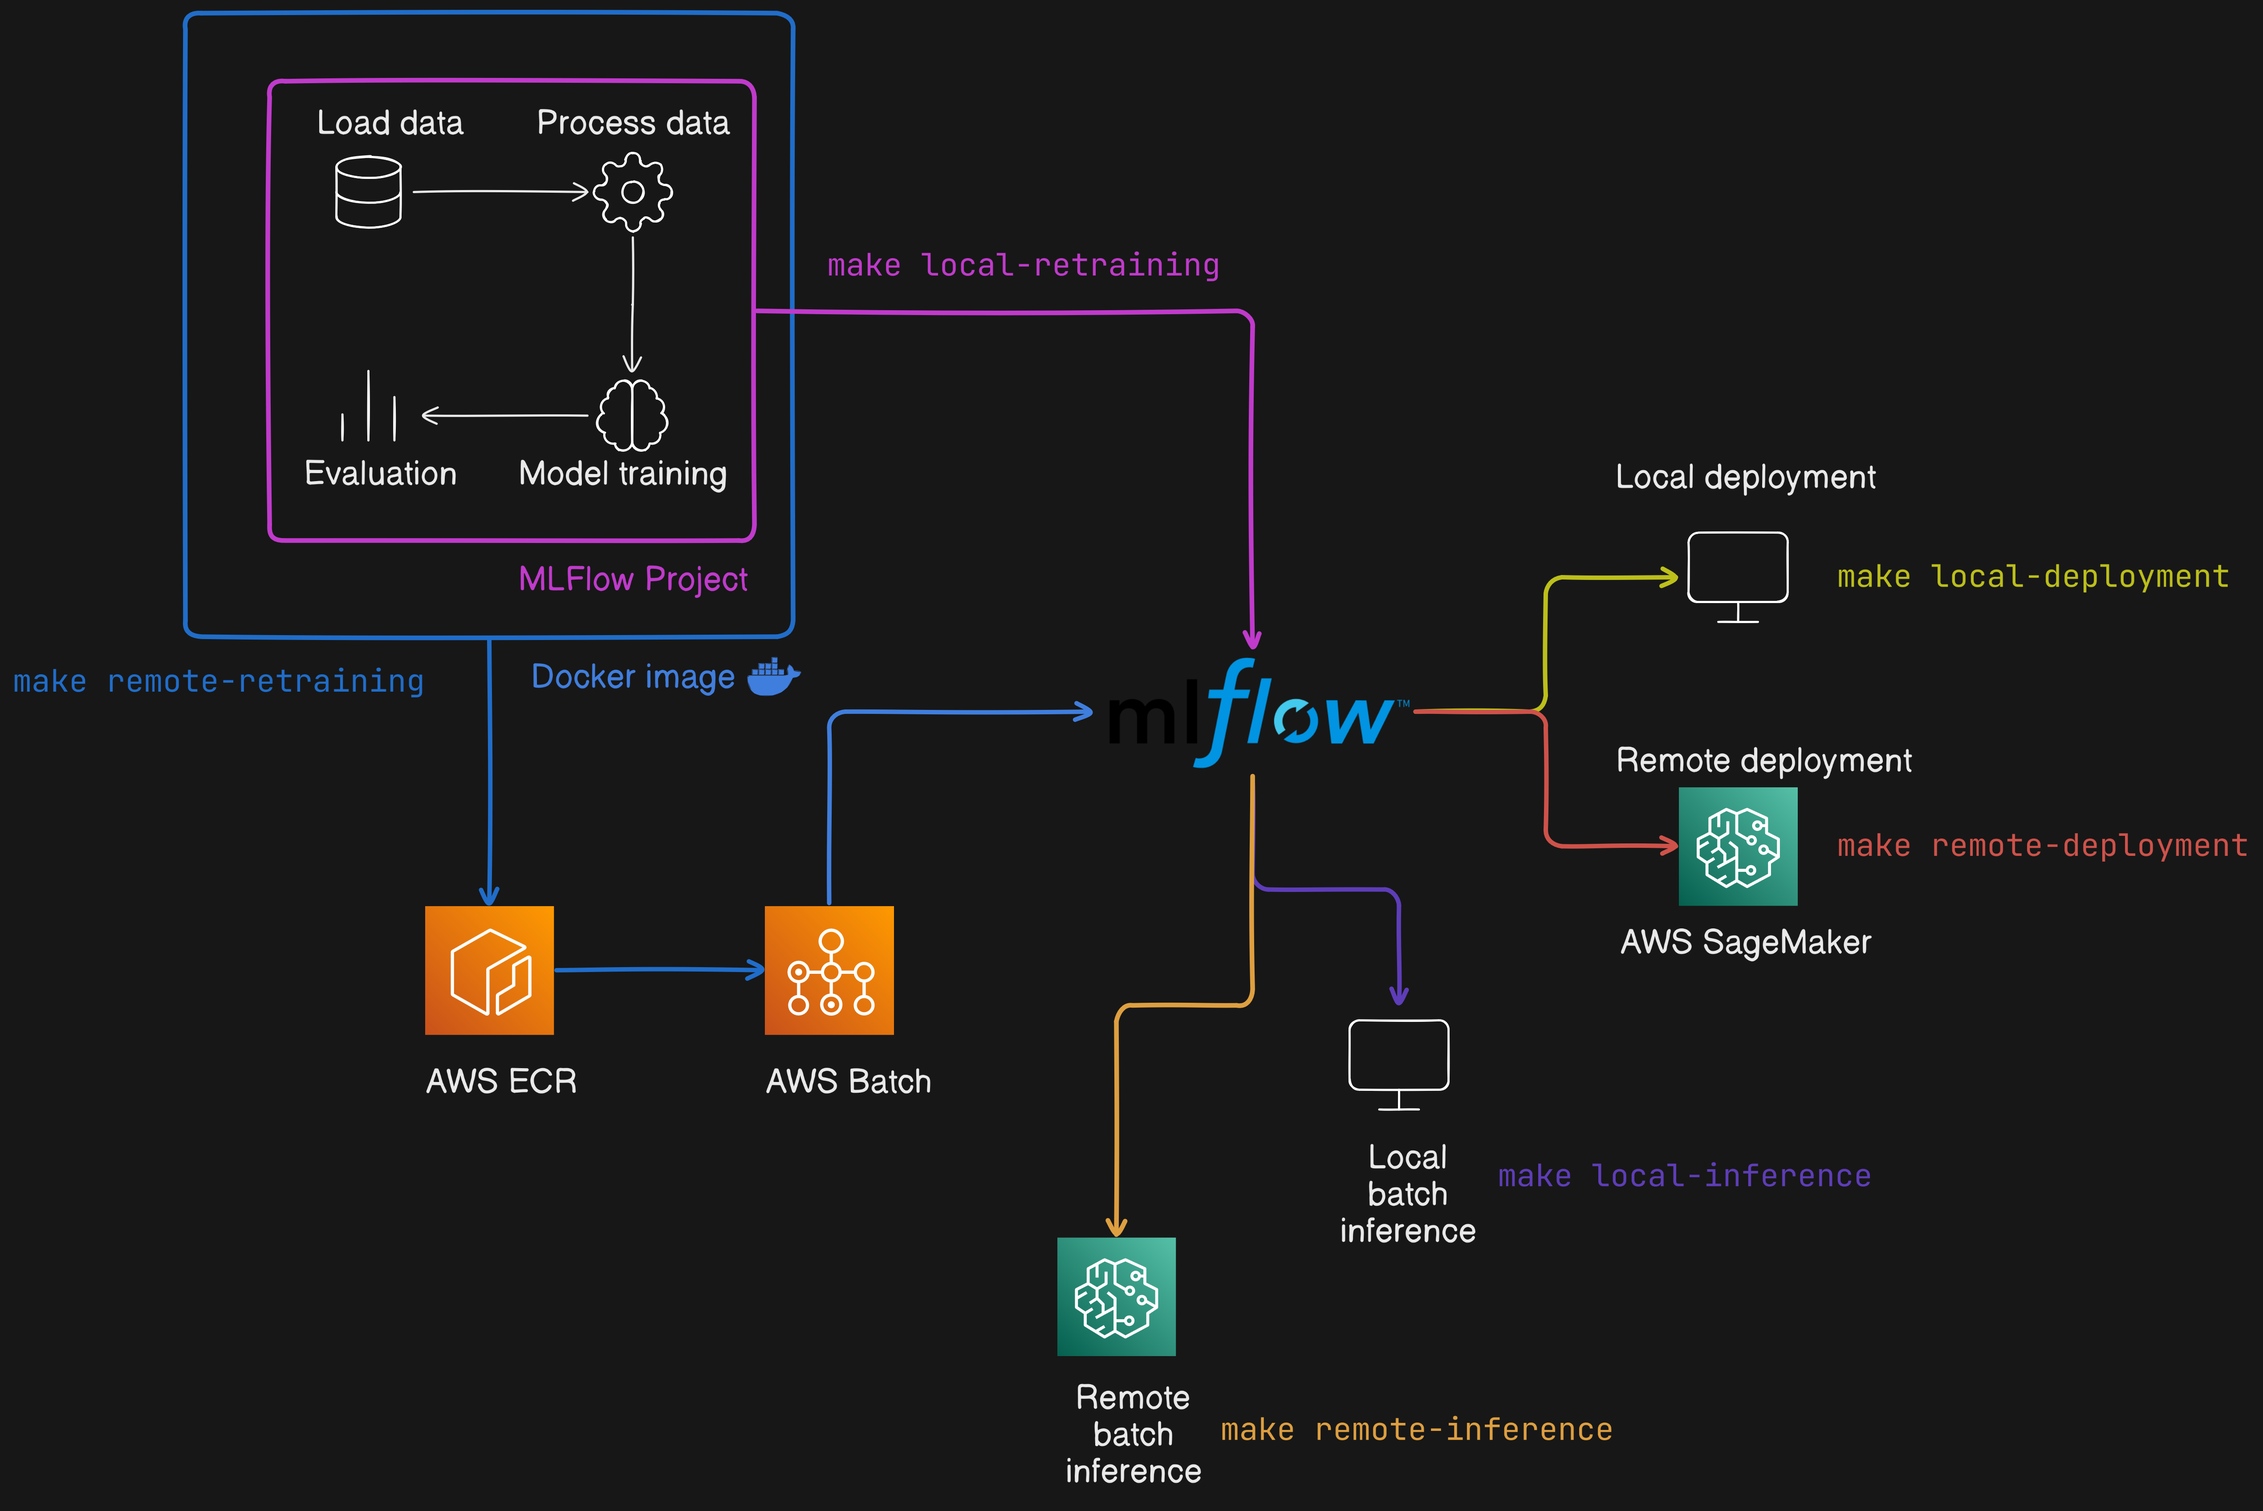
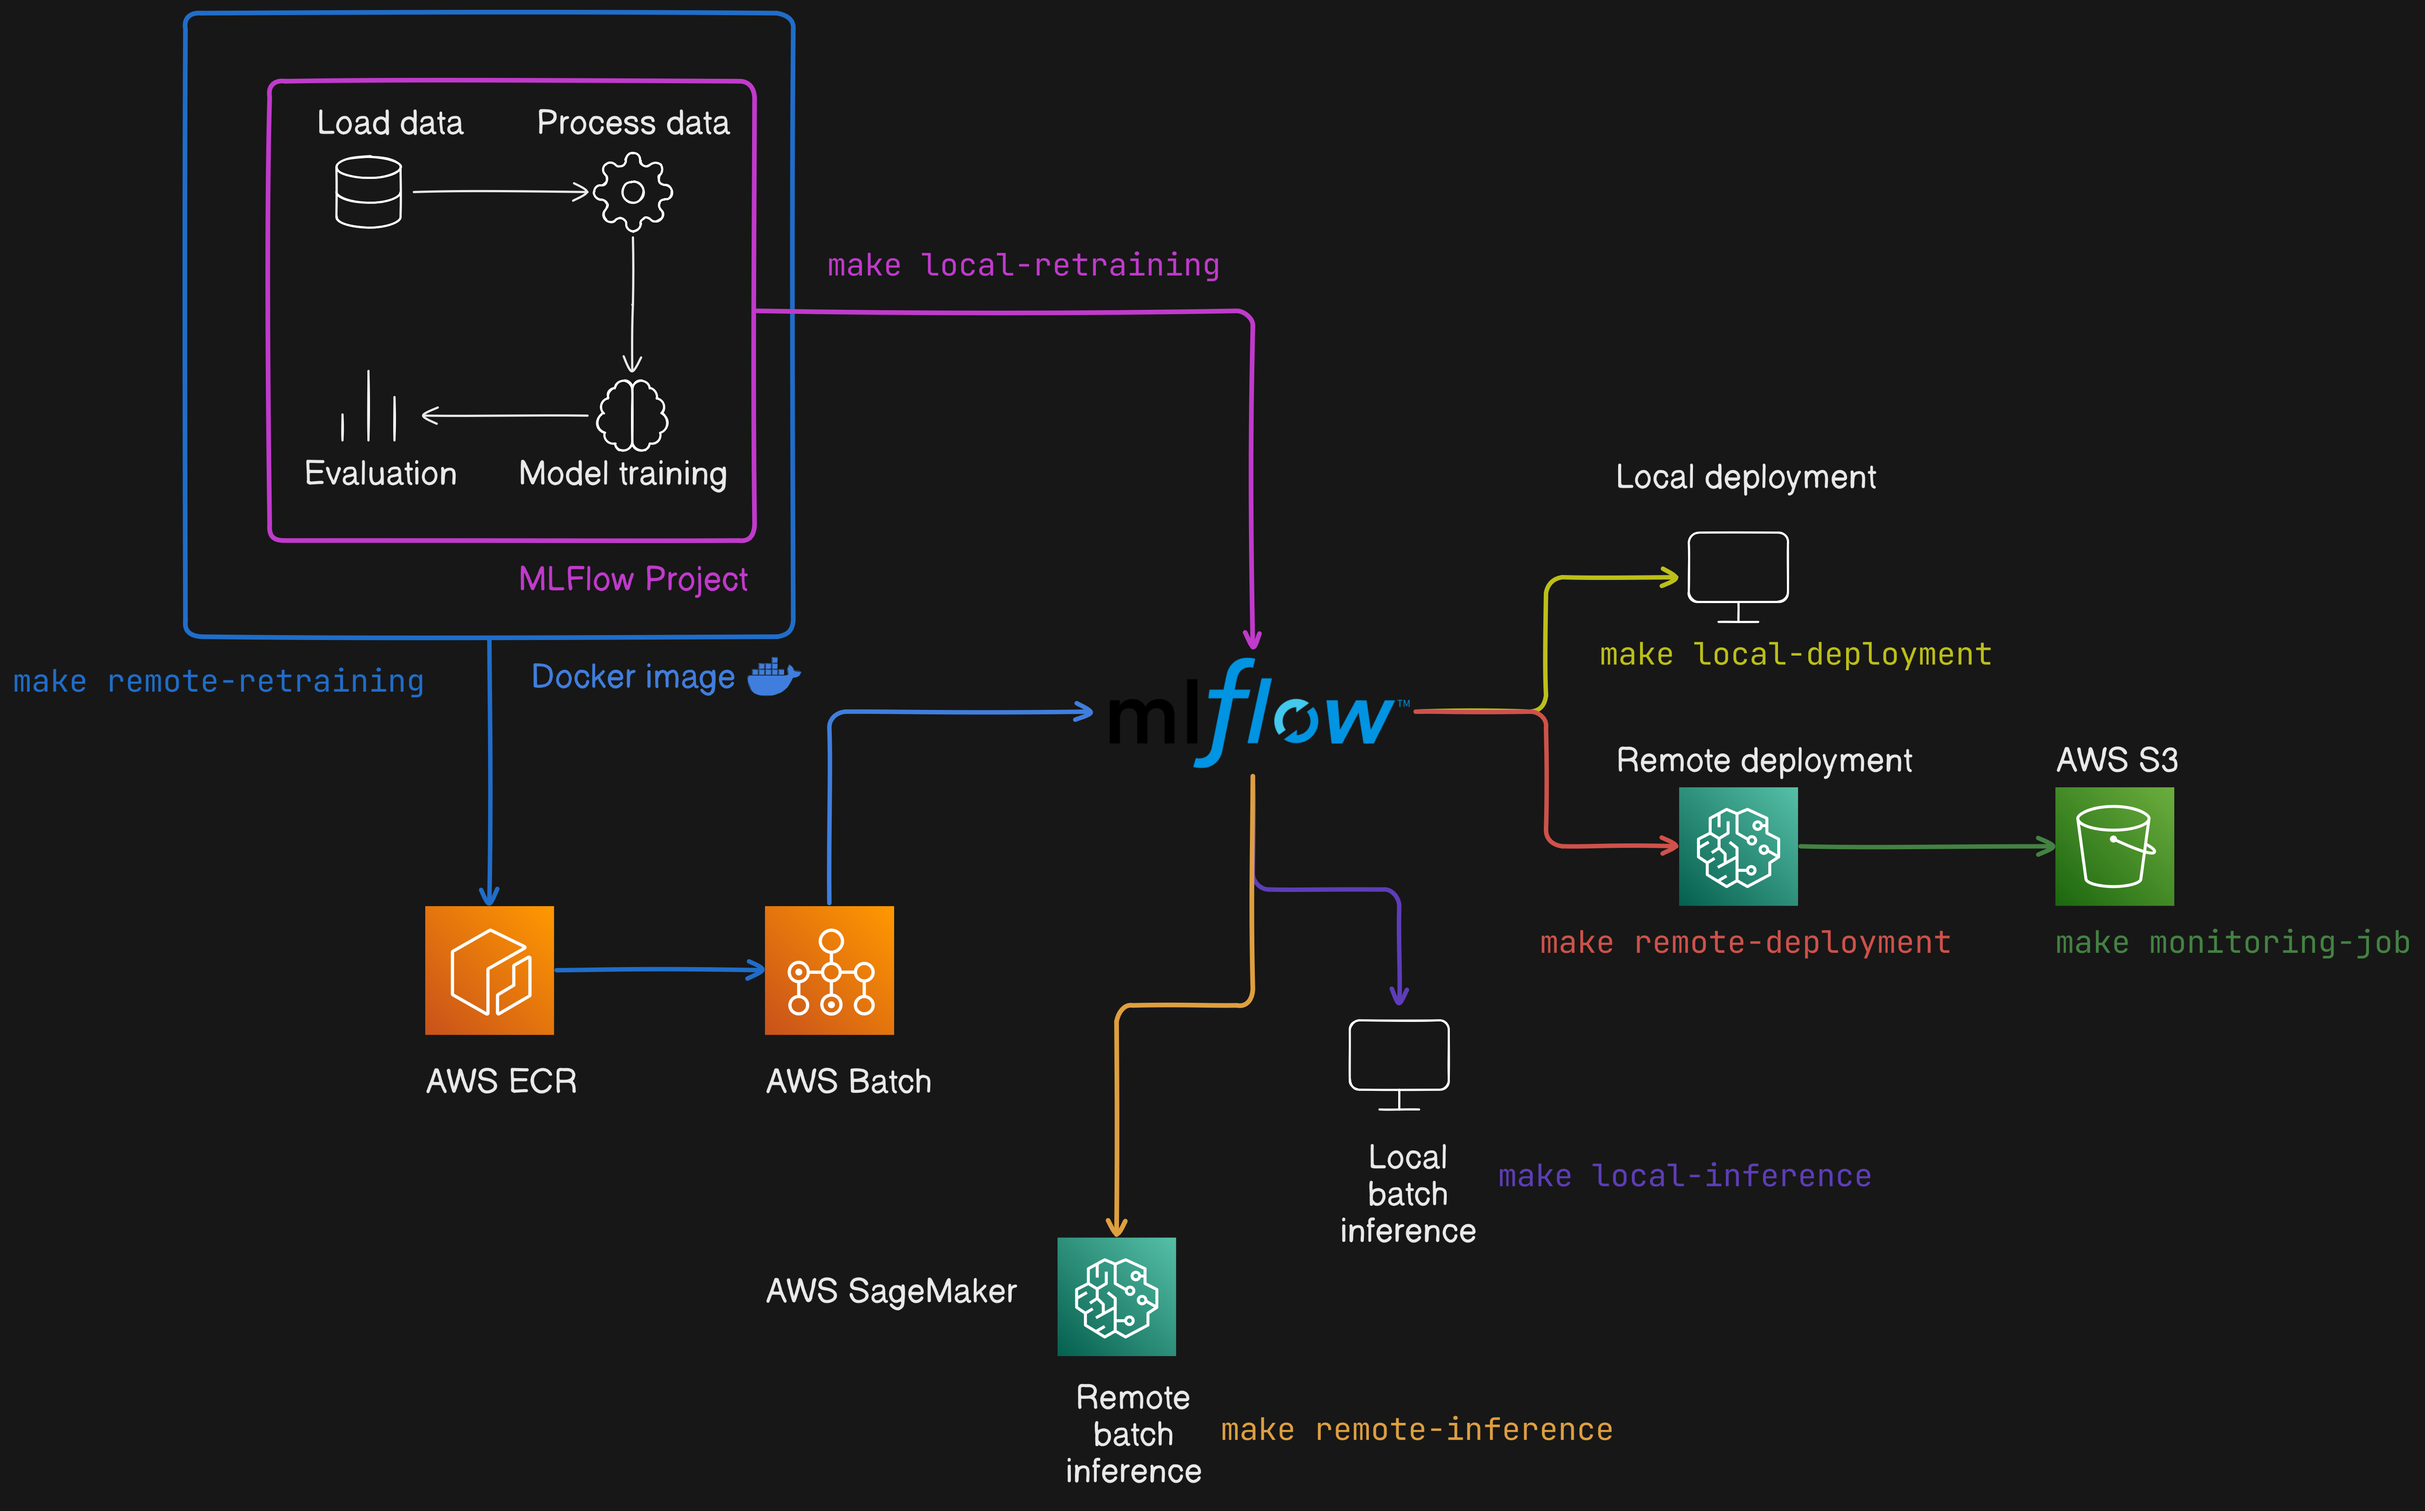
added montiroing job

diff --git a/README.md b/README.md
@@ -2,19 +2,17 @@
 
 This project is a template for an MLOps platform that retrains, deploys and invokes ML models both locally and remotely using MLFlow and AWS SageMaker. 
 
-It contains a base MLFlow project that runs the main ML pipeline when executed, from fetching the data to logging results in MLFlow. A remote MLFlow server acts as the central control platform, and the model life cycle is orchestrated through Makefile entry points.
+It contains a base MLFlow project that runs the main ML pipeline when executed, from fetching the data to logging results in MLFlow. A remote MLFlow server acts as the control centre, and the model life cycle is orchestrated through Makefile entry points.
 
 The main components are
 
-* **MLFlow project** (`project/`): This project contains Python code to fech and preprocess data, train the model, evaluate it and log it to MLFLow. Replace the Python file contents as needed.
+* **MLFlow project** (`project/`): This project contains Python code to fech and preprocess data, train the model, evaluate it and log it to MLFLow. Replace the Python file contents as needed, or add a new project.
 
-* **Terraform's MLFlow project** (`tf/`): If you don't yet have an MLFlow server up and running, use this project to bootstrap one using AWS infrastructure.
+* **Terraform's MLFlow server** (`tf/`): If you don't yet have an MLFlow server up and running, use this project to bootstrap one using AWS infrastructure.
 
 * `Makefile`: This file contains entry points to control the model's life cycle. Use `make` to see more details. Current options are 
 
 ```
-help                Display this help message 
-
 mlflow-server       Bootstraps the MLflow server using the Terraform configuration in tf/ 
 
 mlflow-server-rm    Destroys the MLflow server created with the Terraform configuration in tf/ 
@@ -31,6 +29,8 @@ remote-batch-inference Runs a batch inference job remotely, using .csv inputs an
 remote-deployment   Deploys the model to a SageMaker endpoint using MLFLow. Pass --model-name and --model-version to specify the model to use from the MLFlow registry. 
 
 remote-training     Re-runs the containerised MLFlow project job in AWS and creates a new version of the model in the MLFlow registry. 
+
+monitoring-job      Starts a monitoring job on a SageMaker endpoint.
 ```
 
 ## Template architecture 
@@ -51,7 +51,9 @@ If you already have an MLFlow server, set `MLFLOW_TRACKING_URI` to your server's
 
 3. Install Terraform
 
-4. Create an S3 bucket to store Terraform's state. Set `TERRAFORM_BUCKET` to `s3://my-bucket-name`
+4. Create an S3 bucket to store Terraform's state. 
+
+5. Set `TERRAFORM_BUCKET` to `s3://my-bucket-name`
 
 ## Running remote retraining, deployment or batch inference
 
@@ -59,4 +61,4 @@ You need steps 1. and 2. in the previous section.
 
 ## Launching remote retraining or deployment from GitHub Actions
 
-There are GH Actions workflow in the repository that can be manually run to do this. The advantage of this approach is that it guarantees retrained and deployed models do not have untracked changes.
+There are GH Actions workflows in the repository that can be manually run to do this. The advantage of this approach is that it guarantees retrained and deployed models do not have untracked changes.
